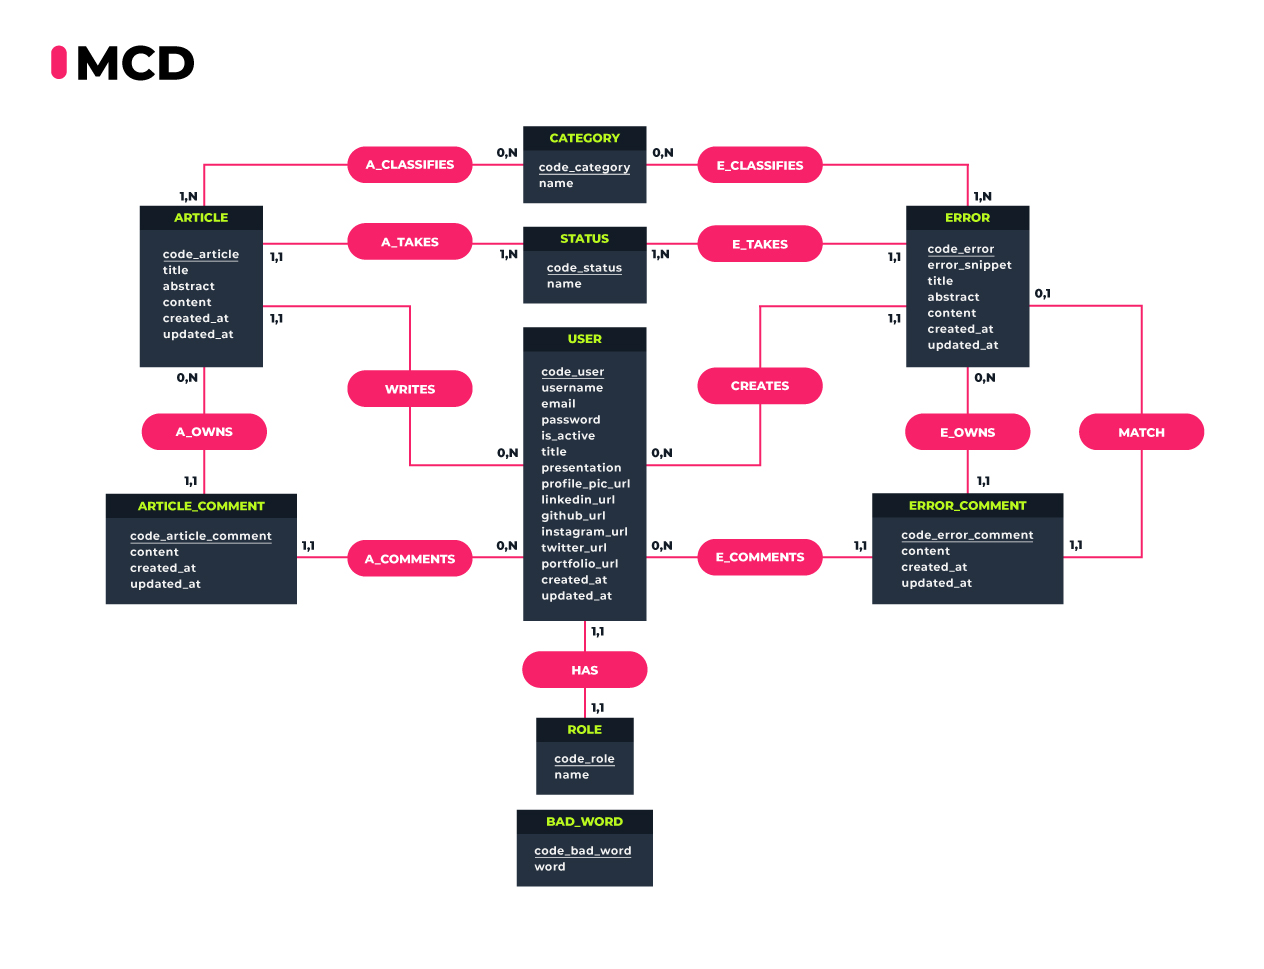
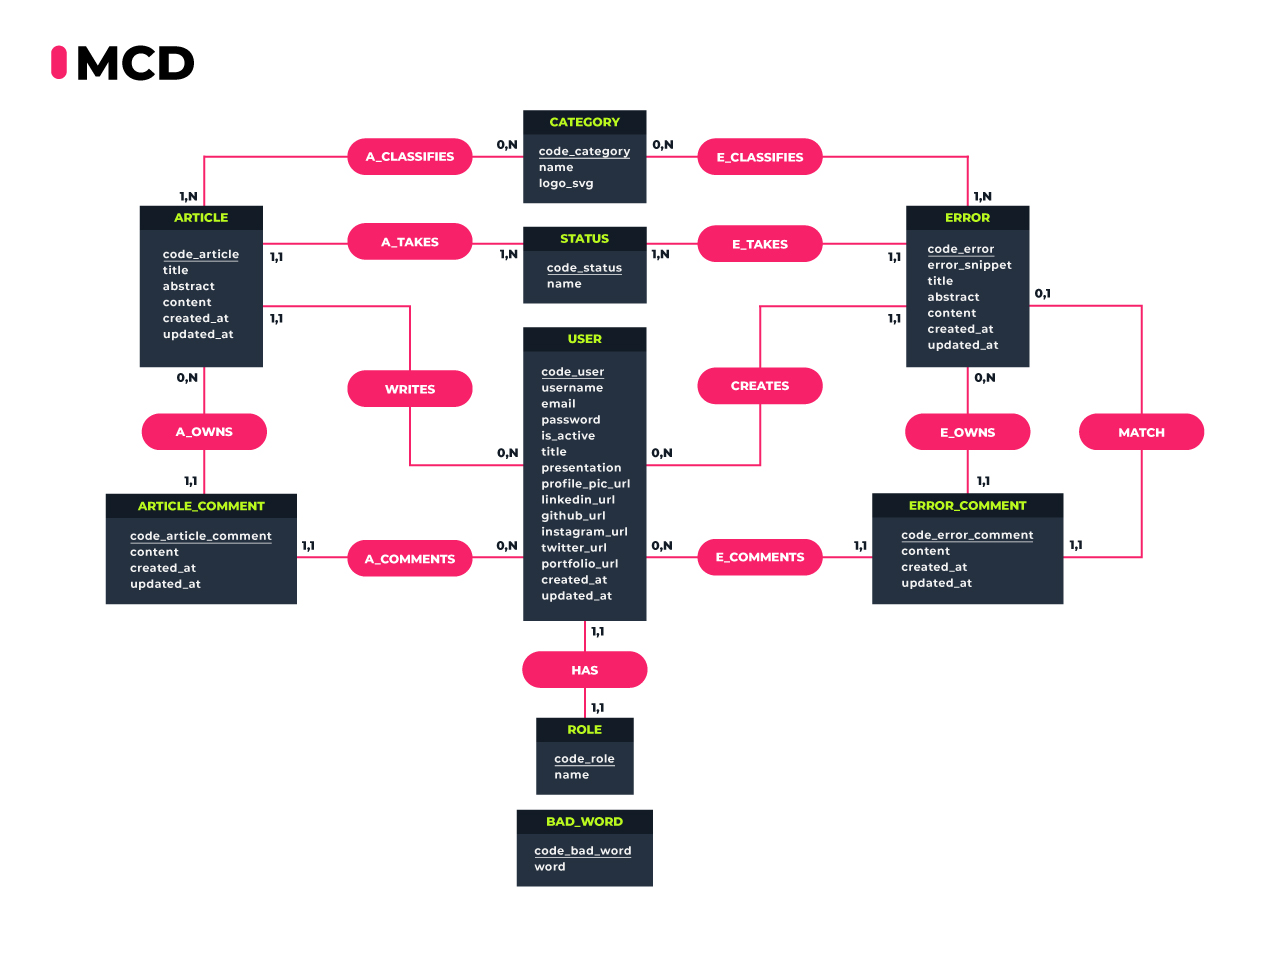
[docs] add resumes

Changed region(s): [[0.1543, 0.0929, 0.7714, 0.2167]]

diff --git a/__Apotheose__/1-Conception/06_Endpoints.md b/__Apotheose__/1-Conception/06_Endpoints.md
@@ -16,7 +16,8 @@ ___
 | POST | /signup | Inscription | String de confirmation | Page inscription|
 | GET | /signout | Déconnexion | String de confirmation | Modale de déconnexion |
 | PATCH | /users/:id | Mise à jour des informations de profil | String de confirmation | Page profil de l'utilisateur|
-| DELETE | /users/:id | Désactivation d'un utilisateur | Objet JSON | Dashboard admin |
+| DELETE | /users/:id | Suppression d'un compte utilisateur | Objet JSON | Dashboard |
+| PUT | /users/:id | Désactivation d'un utilisateur | Objet JSON | Dashboard admin |
 | GET | /users/:id/comments | Récupérer tous les commentaires d'un utilisateur |Tableau d'objets JSON | Dashboard admin |
 |POST|/refreshToken| Met à jour le token pour les autorisations| Objet JSON | Dashboard admin, utilisateur et auteur, page profil, page de creation de ticket d'erreur et d'article|
 

diff --git a/__Apotheose__/1-Conception/05_MCD_MLD_MPD.md b/__Apotheose__/1-Conception/05_MCD_MLD_MPD.md
@@ -43,7 +43,7 @@ MATCH, 11 ERROR, 01 ERROR_COMMENT
 ERROR_COMMENT: code_error_comment, content, created_at, updated_at
 
 A_CLASSIFIES, 1N ARTICLE, 0N CATEGORY
-CATEGORY: code_category, name
+CATEGORY: code_category, name, logo_svg
 E_CLASSIFIES, 1N ERROR, 0N CATEGORY
 ERROR: code_error, title, abstract, content, error_snippet, created_at, updated_at
 E_OWNS, 0N ERROR, 11 ERROR_COMMENT

diff --git a/__Apotheose__/2-Developpement/Front/jour_1.md b/__Apotheose__/2-Developpement/Front/jour_1.md
@@ -1,0 +1,25 @@
+# Jour 1
+
+Date : 19/07/2022
+
+___
+
+## Récap du jour
+
+- Mise en place du Kanban 
+
+- Variables CSS globales
+
+- Structure du projet faite
+
+- Logique des éléments :
+
+    - Composant bouton 
+
+    - Composant input configurables 
+
+    - Composant register form
+
+Mise en place de Redux
+
+Création des premières actions gérées par les reducers

diff --git a/__Apotheose__/2-Developpement/Front/jour_2.md b/__Apotheose__/2-Developpement/Front/jour_2.md
@@ -1,0 +1,20 @@
+# Jour 2
+
+Date : 20/07/2022
+
+___
+
+Check up du matin :
+
+Code review + travail sur la logique + commencer module fetch API 
+
+Objectif 3 composants opérationnels
+
+Bilan : 
+
+- Visuel du header
+- Composant header
+- Logique de state : formulaire d'enregistrement + connexion
+- Logique de fetch : formulaire
+- Composant React unique pour les cartes
+

diff --git a/__Apotheose__/2-Developpement/Back/jour_1.md b/__Apotheose__/2-Developpement/Back/jour_1.md
@@ -1,6 +1,6 @@
 # Jour 1
 
-Date :
+Date : 19/07/2022
 ___
 
 ## Start
@@ -14,3 +14,7 @@ Création du dossier, et c'est parti ...
 Suivi du projet à l'aide d'un Kanban
 
 ![kanban](../../../Images/kanban.gif)
+
+## Récap du jour
+
+Mise en place de l'architecture back des dossiers et fichiers, récapitulatifs des endpoints

diff --git a/__Apotheose__/2-Developpement/Back/jour_2.md b/__Apotheose__/2-Developpement/Back/jour_2.md
@@ -1,0 +1,15 @@
+# Jour 2
+
+Date : 20/07/2022
+
+___
+
+Objectifs :
+
+- Mise en place de la base de données
+- Mise en place des contrôles en base de données (sur les email, password et liens url)
+- Remplir avec des données fake la base de données
+- Mise en place des routes
+
+Bilan :
+

diff --git a/__Apotheose__/2-Developpement/Front/jour_4.md b/__Apotheose__/2-Developpement/Front/jour_4.md
@@ -1,0 +1,12 @@
+# Jour 4
+
+Date : 22/07/2022
+
+___
+
+- Finir composant search bar + navigation accessible (balisage html)
+- Modale de connexion pour préparer toutes les actions (log + delog)
+
+- Accessibilité sur la search bar dans les règles de l'art de Typescript
+
+- 

diff --git a/__Apotheose__/2-Developpement/Back/jour_3.md b/__Apotheose__/2-Developpement/Back/jour_3.md
@@ -1,0 +1,12 @@
+# Jour 3
+
+Date : 21/07/2022
+
+___
+
+- Mise en place des controllers
+- Mise en place de la documentation
+- Mise en place des datamappers opération CRUD de base POO version
+ 
+- Création des fonctions en base de données pour create + update
+

diff --git a/__Apotheose__/2-Developpement/Front/jour_3.md b/__Apotheose__/2-Developpement/Front/jour_3.md
@@ -1,0 +1,15 @@
+# Jour 3
+
+Date : 21/07/2022
+
+___
+
+- Logique des cards, modales, menus
+- Style avec Sass
+
+Bilan du soir :
+
+- Composant unique pour tous les titres
+- Petit blocage titre
+
+- Avancée sur la search bar (onglets)

diff --git a/__Apotheose__/2-Developpement/Back/jour_4.md b/__Apotheose__/2-Developpement/Back/jour_4.md
@@ -1,0 +1,9 @@
+# Jour 4
+
+Date : 22/07/2022
+
+___
+
+- Mise en place de Joi
+- Correctifs sur les datamappers
+- Mise en place des utilisateurs
